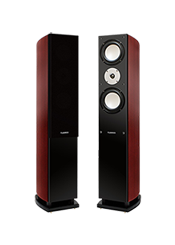
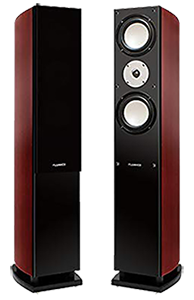
.

diff --git a/IT1/prosjekt1/mobile.html b/IT1/prosjekt1/mobile.html
@@ -43,154 +43,7 @@
       <div class="trendGrid">
         <div class="gridElementSmall">
           <a href="pixel3.html">
-            <img src="products/pixel3.png" class="rev">
-            <p class="title">Google Pixel 3</p>
-            <p class="price">$ 549</p>
-          </a>
-        </div>
-        <div class="gridElementSmall">
-          <a href="xr.html">
-            <img src="products/xr.png" class="rev">
-            <p class="title">Apple iPhone XR</p>
-            <p class="price">$ 889 <span class="strek">359</span></p>
-          </a>
-        </div>
-        <div class="gridElementSmall">
-          <a href="s9.html">
-            <img src="products/s9.png" class="rev">
-            <p class="title">Samsung Galaxy S9+</p>
-            <p class="price">$ 599 <span class="strek">800</span></p>
-          </a>
-        </div>
-        <div class="gridElementSmall">
-          <a href="pixel3.html">
-            <img src="products/pixel3.png" class="rev">
-            <p class="title">Google Pixel 3</p>
-            <p class="price">$ 549</p>
-          </a>
-        </div>
-        <div class="gridElementSmall">
-          <a href="xr.html">
-            <img src="products/xr.png" class="rev">
-            <p class="title">Apple iPhone XR</p>
-            <p class="price">$ 889 <span class="strek">359</span></p>
-          </a>
-        </div>
-        <div class="gridElementSmall">
-          <a href="s9.html">
-            <img src="products/s9.png" class="rev">
-            <p class="title">Samsung Galaxy S9+</p>
-            <p class="price">$ 599 <span class="strek">800</span></p>
-          </a>
-        </div>
-        <div class="gridElementSmall">
-          <a href="pixel3.html">
-            <img src="products/pixel3.png" class="rev">
-            <p class="title">Google Pixel 3</p>
-            <p class="price">$ 549</p>
-          </a>
-        </div>
-        <div class="gridElementSmall">
-          <a href="xr.html">
-            <img src="products/xr.png" class="rev">
-            <p class="title">Apple iPhone XR</p>
-            <p class="price">$ 889 <span class="strek">359</span></p>
-          </a>
-        </div>
-        <div class="gridElementSmall">
-          <a href="s9.html">
-            <img src="products/s9.png" class="rev">
-            <p class="title">Samsung Galaxy S9+</p>
-            <p class="price">$ 599 <span class="strek">800</span></p>
-          </a>
-        </div>
-        <div class="gridElementSmall">
-          <a href="pixel3.html">
-            <img src="products/pixel3.png" class="rev">
-            <p class="title">Google Pixel 3</p>
-            <p class="price">$ 549</p>
-          </a>
-        </div>
-        <div class="gridElementSmall">
-          <a href="xr.html">
-            <img src="products/xr.png" class="rev">
-            <p class="title">Apple iPhone XR</p>
-            <p class="price">$ 889 <span class="strek">359</span></p>
-          </a>
-        </div>
-        <div class="gridElementSmall">
-          <a href="s9.html">
-            <img src="products/s9.png" class="rev">
-            <p class="title">Samsung Galaxy S9+</p>
-            <p class="price">$ 599 <span class="strek">800</span></p>
-          </a>
-        </div>
-        <div class="gridElementSmall">
-          <a href="pixel3.html">
-            <img src="products/pixel3.png" class="rev">
-            <p class="title">Google Pixel 3</p>
-            <p class="price">$ 549</p>
-          </a>
-        </div>
-        <div class="gridElementSmall">
-          <a href="xr.html">
-            <img src="products/xr.png" class="rev">
-            <p class="title">Apple iPhone XR</p>
-            <p class="price">$ 889 <span class="strek">359</span></p>
-          </a>
-        </div>
-        <div class="gridElementSmall">
-          <a href="s9.html">
-            <img src="products/s9.png" class="rev">
-            <p class="title">Samsung Galaxy S9+</p>
-            <p class="price">$ 599 <span class="strek">800</span></p>
-          </a>
-        </div>
-        <div class="gridElementSmall">
-          <a href="pixel3.html">
-            <img src="products/pixel3.png" class="rev">
-            <p class="title">Google Pixel 3</p>
-            <p class="price">$ 549</p>
-          </a>
-        </div>
-        <div class="gridElementSmall">
-          <a href="xr.html">
-            <img src="products/xr.png" class="rev">
-            <p class="title">Apple iPhone XR</p>
-            <p class="price">$ 889 <span class="strek">359</span></p>
-          </a>
-        </div>
-        <div class="gridElementSmall">
-          <a href="s9.html">
-            <img src="products/s9.png" class="rev">
-            <p class="title">Samsung Galaxy S9+</p>
-            <p class="price">$ 599 <span class="strek">800</span></p>
-          </a>
-        </div>
-        <div class="gridElementSmall">
-          <a href="pixel3.html">
-            <img src="products/pixel3.png" class="rev">
-            <p class="title">Google Pixel 3</p>
-            <p class="price">$ 549</p>
-          </a>
-        </div>
-        <div class="gridElementSmall">
-          <a href="xr.html">
-            <img src="products/xr.png" class="rev">
-            <p class="title">Apple iPhone XR</p>
-            <p class="price">$ 889 <span class="strek">359</span></p>
-          </a>
-        </div>
-        <div class="gridElementSmall">
-          <a href="s9.html">
-            <img src="products/s9.png" class="rev">
-            <p class="title">Samsung Galaxy S9+</p>
-            <p class="price">$ 599 <span class="strek">800</span></p>
-          </a>
-        </div>
-        <div class="gridElementSmall">
-          <a href="pixel3.html">
-            <img src="products/pixel3.png" class="rev">
+            <img src="products/pixel.png" class="rev">
             <p class="title">Google Pixel 3</p>
             <p class="price">$ 549</p>
           </a>

diff --git a/IT1/prosjekt1/home.html b/IT1/prosjekt1/home.html
@@ -149,7 +149,7 @@
         </div>
         <div class="gridElementSmall">
           <a href="curved.html">
-            <img src="products/Monitor.png" class="rev">
+            <img src="products/curved.png" class="rev">
             <p class="title">Philips Curved LCD Monitor</p>
             <p class="price">$ 289 <span class="strek">359</span></p>
           </a>

diff --git a/IT1/prosjekt1/headset.html b/IT1/prosjekt1/headset.html
@@ -39,7 +39,7 @@
   </header>
   <main>
     <div class="productGrid">
-      <img src="products/headset.png" class="productImg">
+      <img src="products/headset2.png" class="productImg">
       <div class="productInfo">
         <h1 id="productName">SteelSeries Arctis Pro Wireless</h1>
         <p id="productPrice">$ 1 190 <span class="strek">1 560</span></p>

diff --git a/IT1/prosjekt1/speaker.html b/IT1/prosjekt1/speaker.html
@@ -39,7 +39,7 @@
   </header>
   <main>
     <div class="productGrid">
-      <img src="products/speaker.png" class="productImg">
+      <img src="products/speaker2.png" class="productImg">
       <div class="productInfo">
         <h1 id="productName">Fluance XL7F Speakers</h1>
         <p id="productPrice">$ 1 190 <span class="strek">1 560</span></p>

diff --git a/IT1/prosjekt1/blade.html b/IT1/prosjekt1/blade.html
@@ -39,7 +39,7 @@
   </header>
   <main>
     <div class="productGrid">
-      <img src="products/blade.png" class="productImg">
+      <img src="products/blade2.png" class="productImg">
       <div class="productInfo">
         <h1 id="productName">Razer Blade Stealth</h1>
         <p id="productPrice">$ 1 190 <span class="strek">1 560</span></p>

diff --git a/IT1/prosjekt1/pixel3.html b/IT1/prosjekt1/pixel3.html
@@ -39,7 +39,7 @@
   </header>
   <main>
     <div class="productGrid">
-      <img src="products/pixel3.png" class="productImg">
+      <img src="products/pixel32.png" class="productImg">
       <div class="productInfo">
         <h1 id="productName">Google Pixel 3</h1>
         <p id="productPrice">$ 1 190 <span class="strek">1 560</span></p>

diff --git a/IT1/prosjekt1/jbl.html b/IT1/prosjekt1/jbl.html
@@ -39,7 +39,7 @@
   </header>
   <main>
     <div class="productGrid">
-      <img src="products/jbl.png" class="productImg">
+      <img src="products/jbl2.png" class="productImg">
       <div class="productInfo">
         <h1 id="productName">JBL Charge 3 Black</h1>
         <p id="productPrice">$ 1 190 <span class="strek">1 560</span></p>

diff --git a/IT1/prosjekt1/dji.html b/IT1/prosjekt1/dji.html
@@ -39,7 +39,7 @@
   </header>
   <main>
     <div class="productGrid">
-      <img src="products/dji.png" class="productImg">
+      <img src="products/dji2.png" class="productImg">
       <div class="productInfo">
         <h1 id="productName">DJI Phanthom 4</h1>
         <p id="productPrice">$ 1 190 <span class="strek">1 560</span></p>
